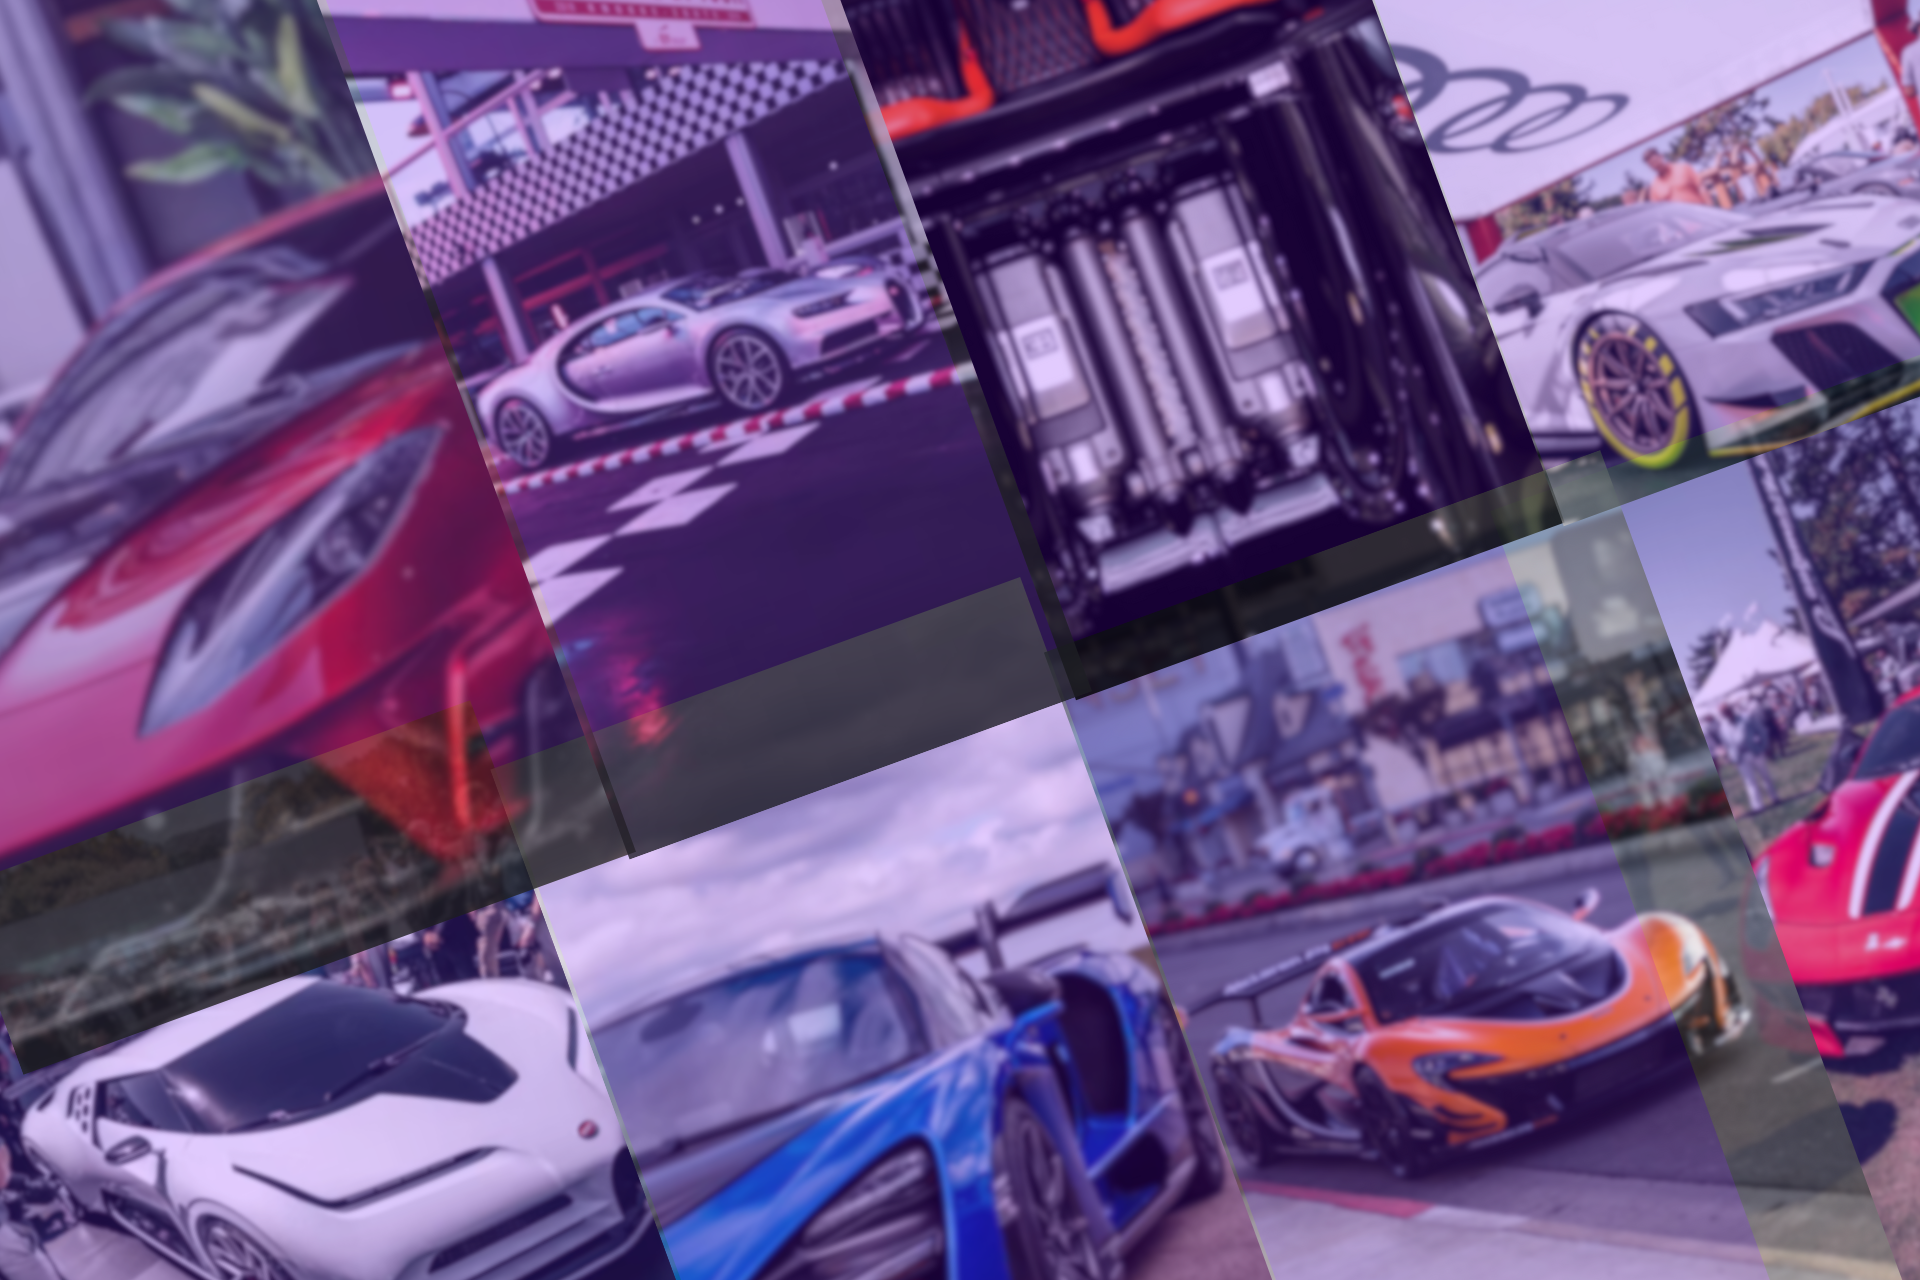
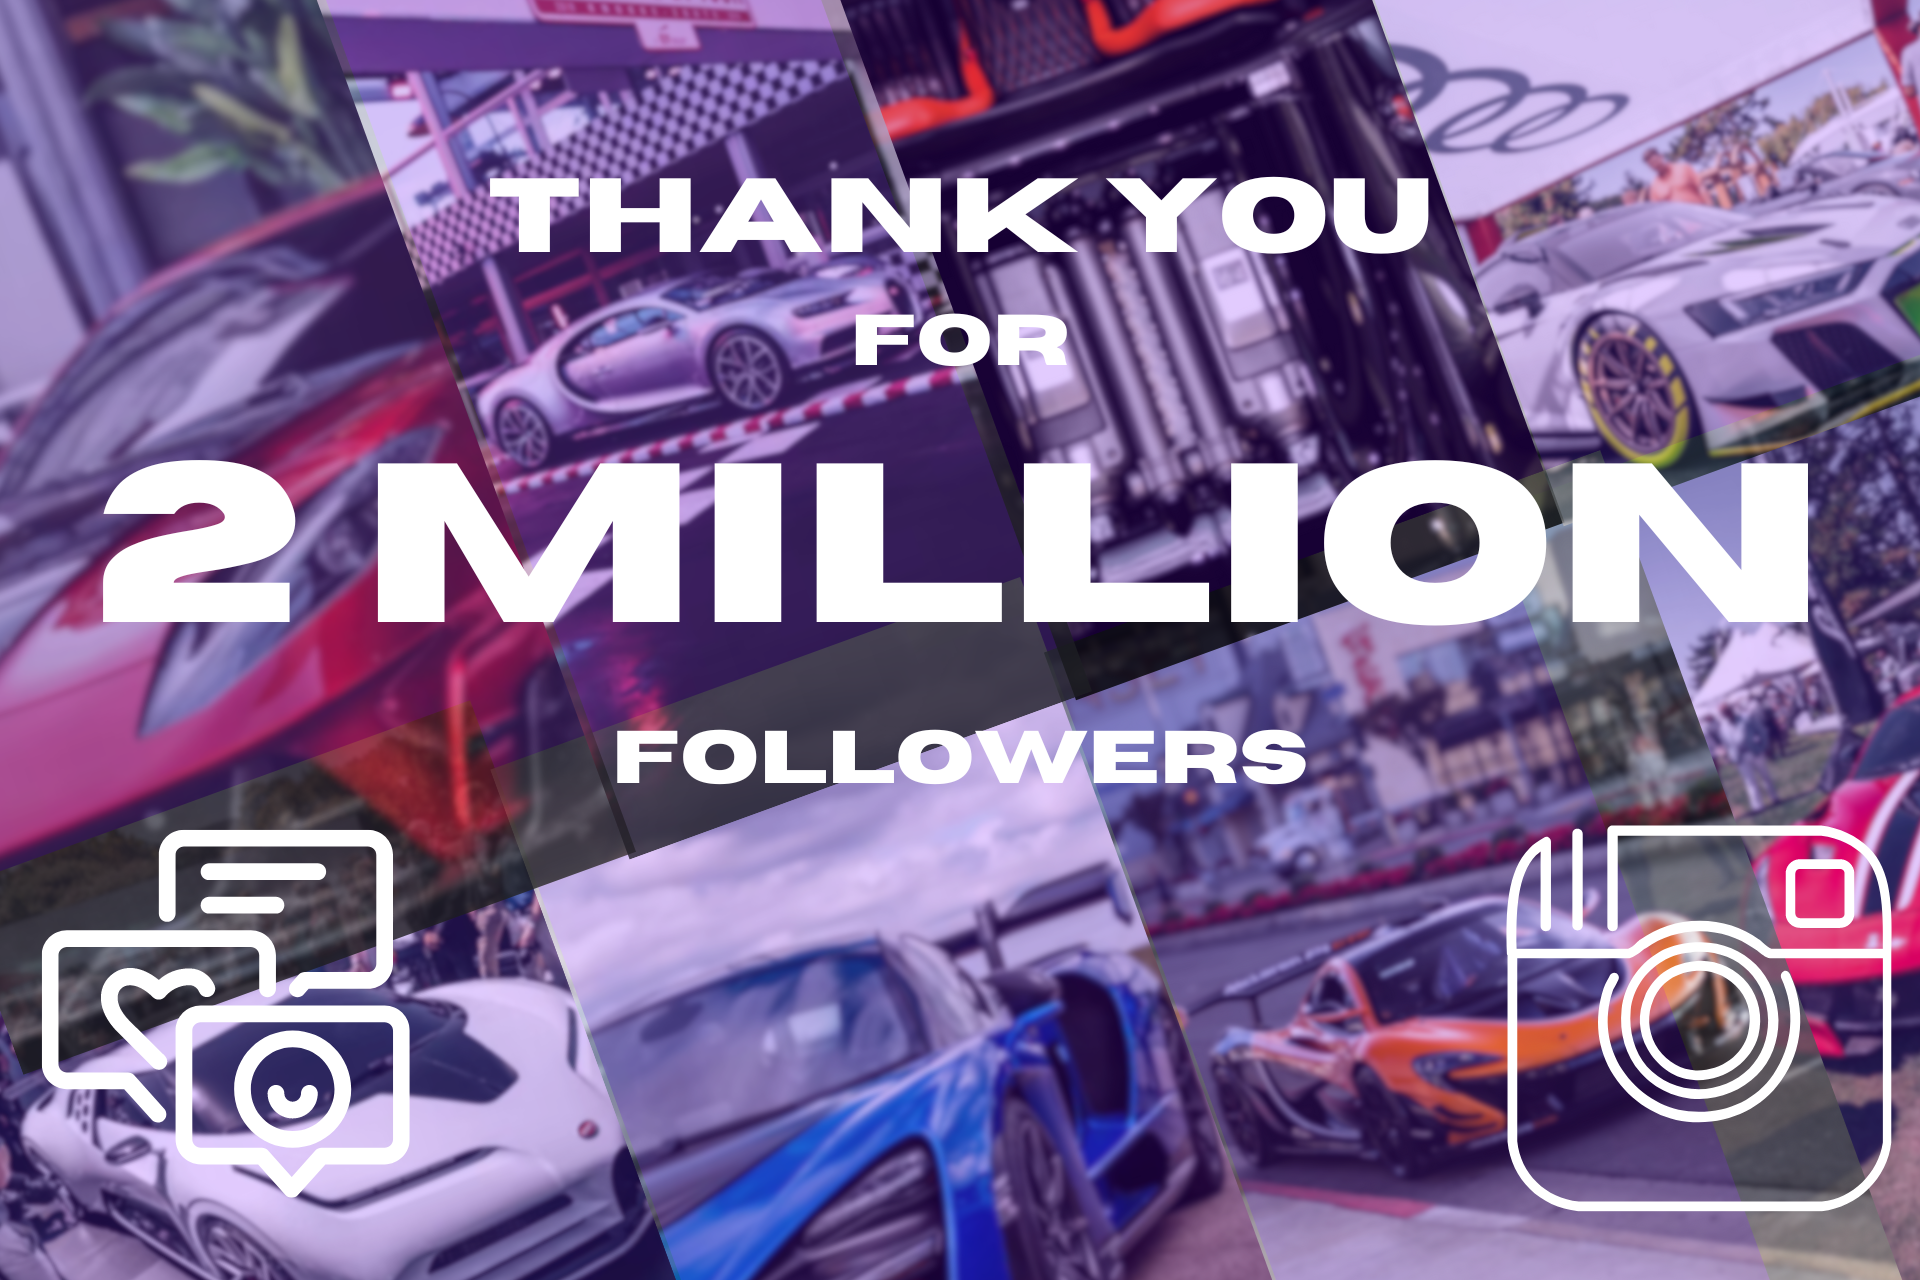
changed p

diff --git a/newspage2/project2.html b/newspage2/project2.html
@@ -115,41 +115,52 @@
           <img class="body-img" src="../src/img/news/project2/img1.jpg" />
 
           <p>
-            The vehicle received a multi-stage paint correction, ensuring this
-            pristine and brand new vehicle and its paint is leveled, cleaned,
-            and correct so it can be protected for years to come. Furthermore,
-            we’ve added a complete front-end XPEL Ultimate Plus paint protection
-            film alongside the lower body high-impact areas, ensuring the utmost
-            protection to the vehicle without adding the paint protection film
-            on the whole vehicle. Additionally, the badges on the vehicle were
-            removed, cleaning up the exterior and pushing the blacked-out look
-            to a new level.
+            Surpassing the remarkable milestone of two million followers on our
+            @THEOFFICIALDETAILDWRAPZ Instagram channel has been an exhilarating
+            journey, and we are immensely grateful for your unwavering support.
+            With each like, comment, and share, you've propelled us towards
+            greater heights in the digital sphere. Together, we've fostered a
+            vibrant community, engaging in meaningful conversations and
+            interactions that enrich our brand narrative. Your enthusiasm fuels
+            our passion to continue sharing exclusive glimpses into our product
+            universe, delivering the latest updates, and offering
+            behind-the-scenes insights from DETAILD.
           </p>
 
           <p>
-            The owner wanted to tint the windows, matching the entire car with a
-            similar window tint, done with an XPEL Prime XR premium ceramic
-            window tint. The wheels were also taken care of, receiving a full
-            wheel barrel and caliper ceramic coating, ensuring easier brake dust
-            cleanup, protection, and improved looks for years to come.
+            @THEOFFICIALDETAILDWRAPZ Instagram channel marks a thrilling chapter
+            in our journey, and we extend our deepest appreciation for your
+            steadfast support. Your active participation, whether through
+            comments, shares, or interactions, has propelled us forward in the
+            digital landscape. Together, we've cultivated a dynamic community,
+            where dialogue flourishes, and connections thrive, enriching the
+            tapestry of our brand story. Your boundless enthusiasm ignites our
+            dedication to unveil exclusive glimpses into our product world,
+            delivering timely updates, and providing behind-the-scenes access to
+            the inner workings of DETAILD.
           </p>
 
           <img class="body-img" src="../src/img/news/project1/img2.jpg" />
 
           <p>
-            Finally, our team applied a complete vehicle ceramic coating. In
-            this case, we went with a full vehicle Gyeon Q2 Infinite Base Type 1
-            ceramic coating, ensuring both pristine looks and added protection
-            to the paint finish of this vehicle. The resulting look speaks for
-            itself, as the Black Sapphire Metallic paint finish on this BMW iX
-            looks incredible from all angles, as you can see for yourself in the
-            media gallery right below.
+            As we reflect on this milestone, we're reminded of the profound
+            impact of our collective journey. Your unwavering support has not
+            only elevated our digital presence but also shaped the essence of
+            our brand identity. Each interaction, whether a heartfelt comment or
+            a shared moment, contributes to the vibrant tapestry of our
+            community. Moving forward, we're committed to nurturing this bond,
+            continuing to engage, inspire, and innovate alongside you.
           </p>
 
           <p>
-            If you own a BMW iX and want to protect your investment, please
-            don’t hesitate to contact us right away. Our team will gladly help
-            you get the same result you want for your vehicle.
+            In closing, we extend our sincerest gratitude for your role in
+            shaping the @THEOFFICIALDETAILDWRAPZ Instagram channel into a beacon
+            of creativity and connection. Together, we've transcended mere
+            followership, forging a dynamic partnership rooted in shared passion
+            and purpose. As we embark on the next chapter of our journey, we do
+            so with excitement and anticipation, knowing that our shared
+            experiences will continue to propel us towards even greater heights.
+            Thank you for being an integral part of our story at DETAILD.
           </p>
         </div>
 
